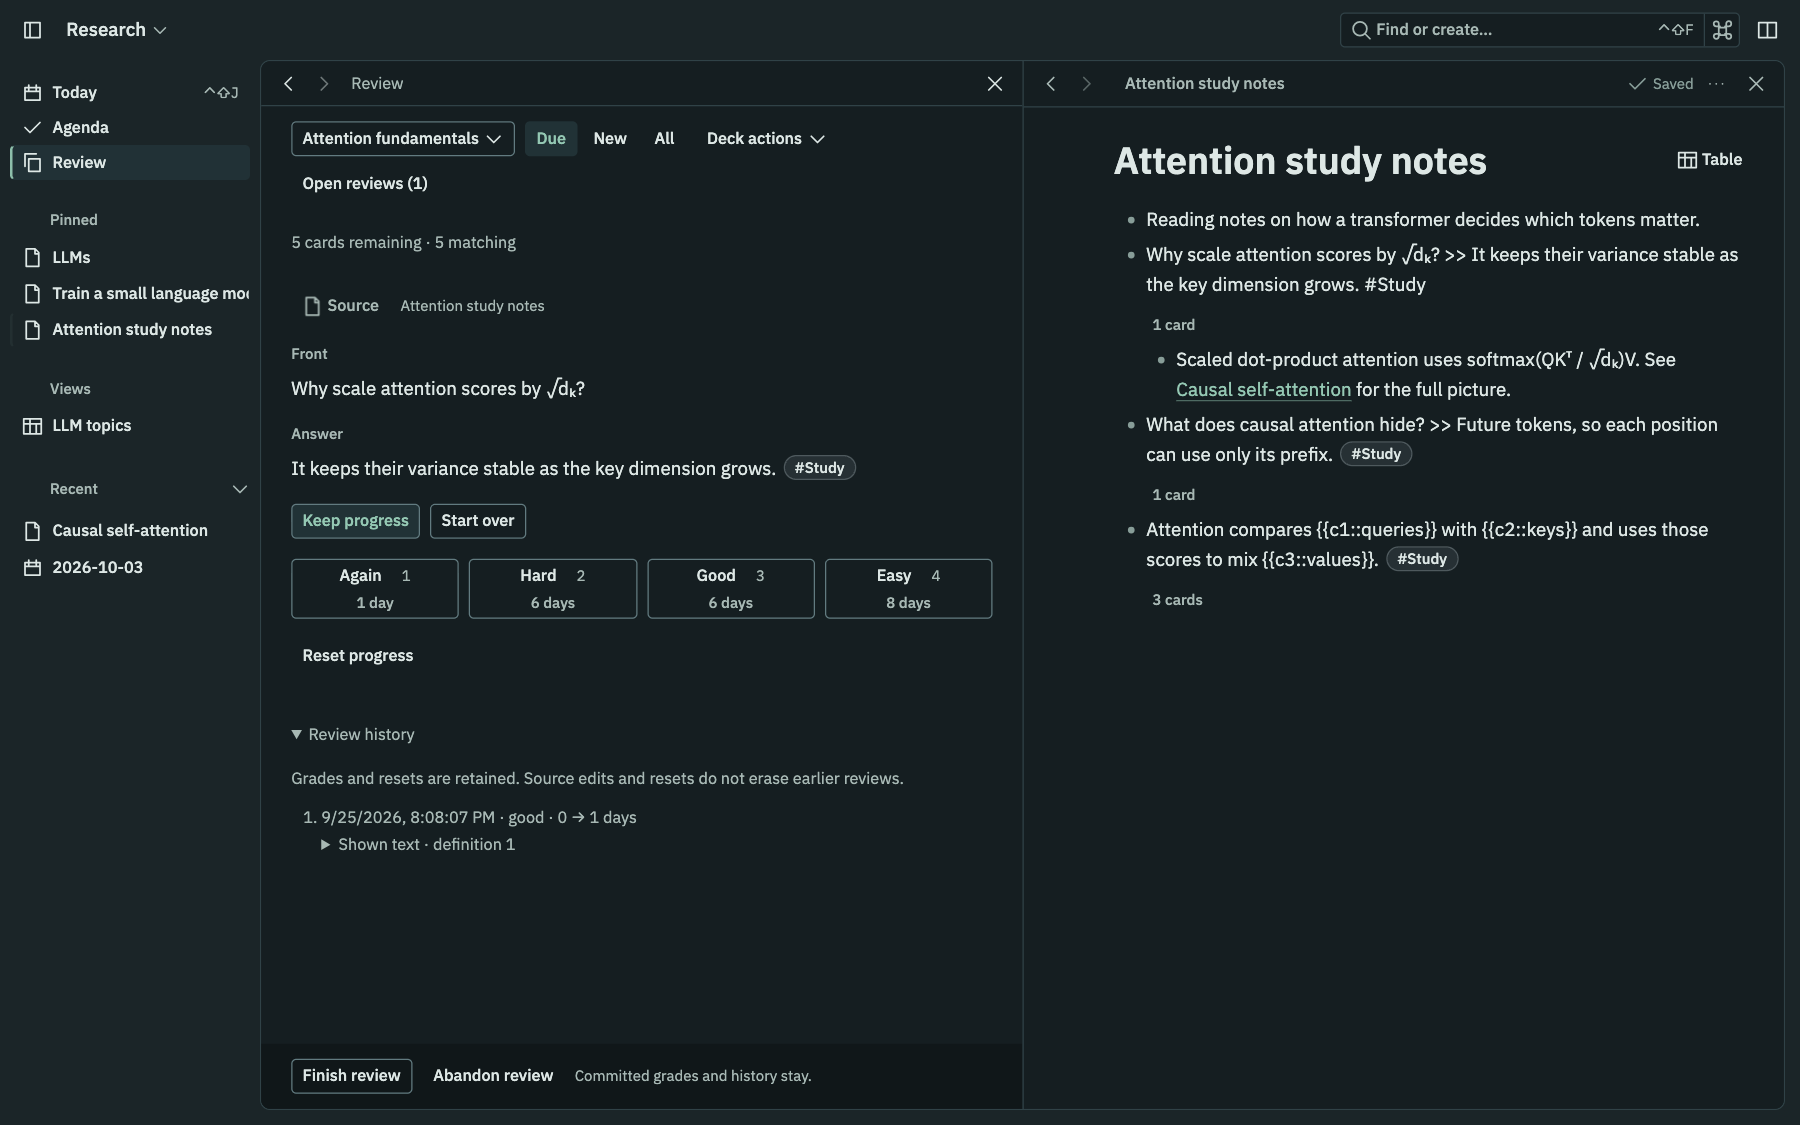
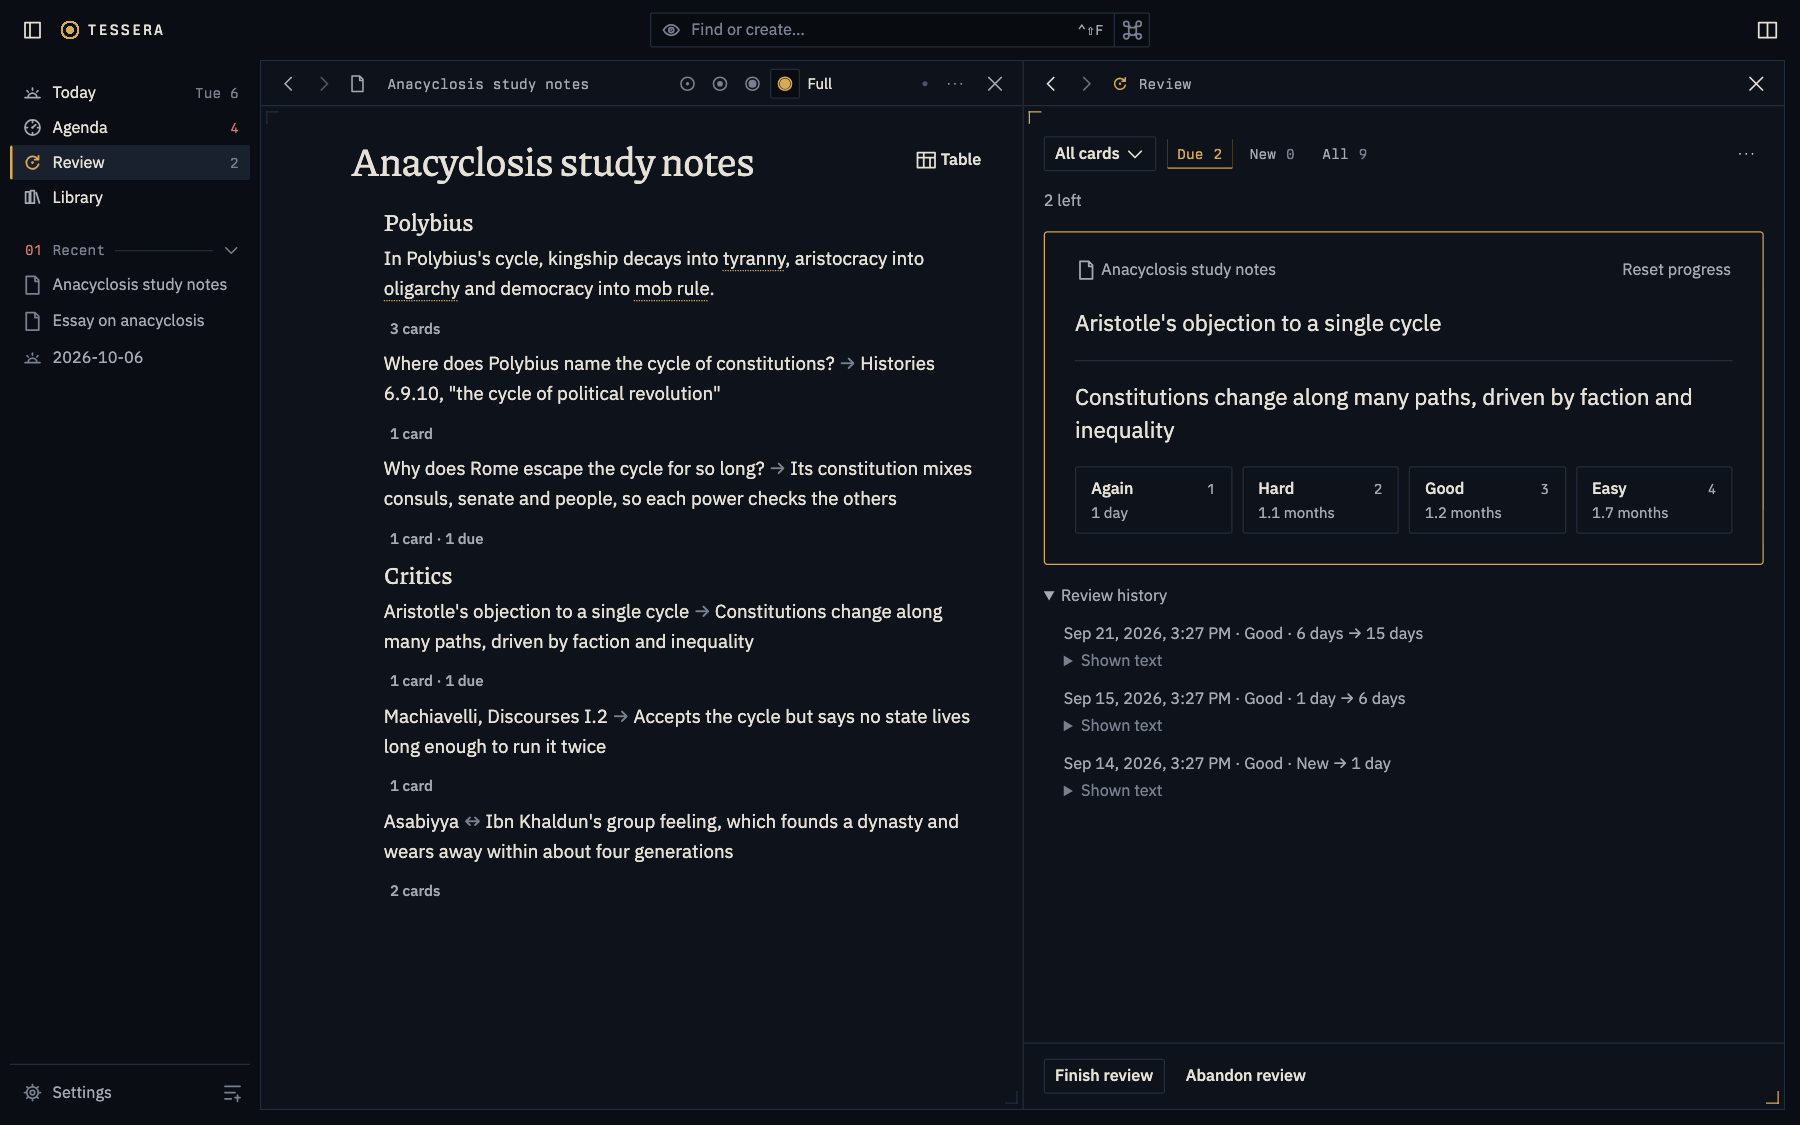
docs(readme): replaced screenshots with an anacyclosis notebook
- Showed perspectives, comparison, reading, task queries and review
  using the current visual language.
- Documented light themes and the started inquiry workflows.

diff --git a/README.md b/README.md
@@ -2,27 +2,41 @@
 
 Tessera is a local-first outline workstation for notes, questions, evidence, tasks and study. You write in an outline of small addressable blocks. Each block is one tile; pages, journals, agendas, investigations and review sessions are different ways of arranging the same tiles.
 
-Status: the daily outline, structure, action, learning, library and reading workflows are working. Pages, journals, references, search, fields, saved tables and two panes share operation-based autosave, undo and conflict handling. Tasks support planning, recurrence, projects, clocked work and historical agendas. Cards derive from authored notes and vocabulary, with query-backed decks, review sessions and retained scheduling history. EPUB books and web articles are ingested as immutable snapshots, read beside the outline, highlighted into cited blocks and exported as BibTeX or CSL JSON. Capture and inquiry follow the [roadmap](docs/roadmap.md).
+Status: the daily outline, structure, action, learning, library and reading workflows are working. Pages, journals, references, search, fields, saved tables and two panes share operation-based autosave, undo and conflict handling. Tasks support planning, recurrence, projects, clocked work and historical agendas. Cards derive from authored notes and vocabulary, with query-backed decks, review sessions and retained scheduling history. EPUB books and web articles are ingested as immutable snapshots, read beside the outline, highlighted into cited blocks and exported as BibTeX or CSL JSON. Questions, perspectives and side-by-side comparison have started; capture and the rest of inquiry follow the [roadmap](docs/roadmap.md).
 
 ## Screenshots
 
-### Linked research
+The notebook below studies anacyclosis, Polybius's cycle of constitutions. Its quotations come from W. R. Paton's public-domain 1923 translation.
 
-Follow references into a second pane without leaving the source outline.
+### Perspectives on one idea
 
-![Linked research outlines showing an LLM overview beside notes on causal self-attention](docs/images/research.png)
+Each thinker's position sits under the idea it answers, with its source's siglum in the margin and a constellation of every holder beside the page.
+
+![The Anacyclosis page at Perspectives depth, with six positions marked PLA, ARI, POL, CIC, MAC and KHA beside a constellation of their holders](docs/images/perspectives.png)
+
+### Compare positions
+
+Compare lays the positions side by side over their shared fields. Shared values are marked, and a field where every perspective differs is ruled in red.
+
+![A light comparison table of six perspectives on anacyclosis across Shape, Engine and Exit fields](docs/images/compare.png)
+
+### Read and cite sources
+
+A source page sits beside its reader. Highlighting a passage writes an ordinary block on the source page that cites it.
+
+![The Polybius Book 6 source page with its metadata and one cited highlight, beside the reader with that passage highlighted](docs/images/reader.png)
 
 ### Tasks and agenda
 
-Project tasks stay in their source outline while the agenda collects schedules, deadlines and completed occurrences.
+Project tasks stay in their outline. In Agenda's Tasks view, one query line filters by project, state and dates, and each term becomes a removable chip.
 
-![A project outline with readable task titles and wrapped planning details beside its daily agenda](docs/images/agenda.png)
+![An essay project's tasks beside the Tasks view filtered by the chips show:open, the project and a date range](docs/images/tasks.png)
 
-### Review and source notes
+### Review beside the notes
 
-Review a saved deck beside its source notes, with interval previews and retained review history.
+Review a deck beside the notes its cards come from, with interval previews for each grade and the card's retained history.
 
-![A revealed study card with four grade intervals and review history beside its original notes](docs/images/review.png)
+![A revealed card with four grade intervals and its review history beside the study notes that define it](docs/images/review.png)
 
 ## What it is for
 
@@ -39,7 +53,7 @@ Review a saved deck beside its source notes, with interval previews and retained
 2. Identity outlives wording. Moving, editing or referencing a block keeps its ID, its cards and its history.
 3. Structure is added, not chosen up front. A block can gain a task, a question, a card or a type without becoming a different object.
 4. Don't drop a frame. Typing, scrolling and navigation have explicit budgets, measured on large notebooks.
-5. Dark, quiet and keyboard-first, with every action also reachable by a visible control.
+5. Quiet and keyboard-first, in a dark or light theme, with every action also reachable by a visible control.
 
 ## Documents
 
